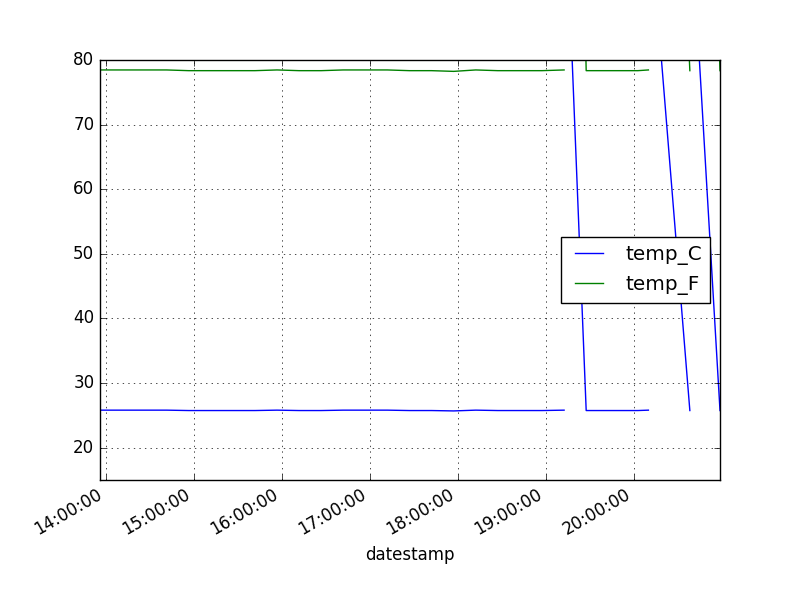
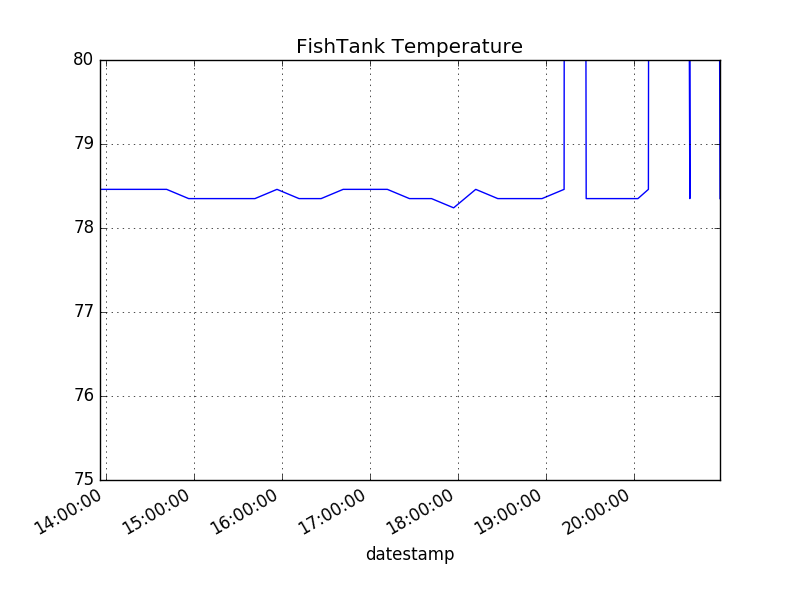
up

diff --git a/temp_analize.py b/temp_analize.py
@@ -43,20 +43,21 @@ logger.info('***start program')
 ### pull in log fishtemp.log file into pandas
 pdinp = pd.read_csv('fishtemp.log', header=None, names=['datestamp', 'type', 'status', 'temp_C', 'temp_F'], index_col=0, parse_dates = True, skipinitialspace=True)
 
-print(pdinp)
-print(pdinp.index)
+#print(pdinp)
+#print(pdinp.index)
 
-pdinp2 = pdinp.copy()
-# pdinp2 = pdinp2[pdinp2['status'].isin(['ok', 'hi', 'lo'])]
-pdinp2 = pdinp2['status'].isin(['ok', 'hi', 'lo'])
+#pdinp2 = pdinp.copy()
+#pdinp2 = pdinp2['status'].isin(['ok', 'hi', 'lo'])
+#print(pdinp2)
 
-print(pdinp2)
+pdinp = pdinp.dropna()
+# print(pdinp)
 
 
-pdinp.plot(ylim=[15,80])
+pdinp.plot(title='FishTank Temperature', kind='line', grid=True, y='temp_F', ylim=[75,80])
 fig = plt.gcf()
 fig.savefig('plot.png')
-plt.show()
+#plt.show()
 
 
 
